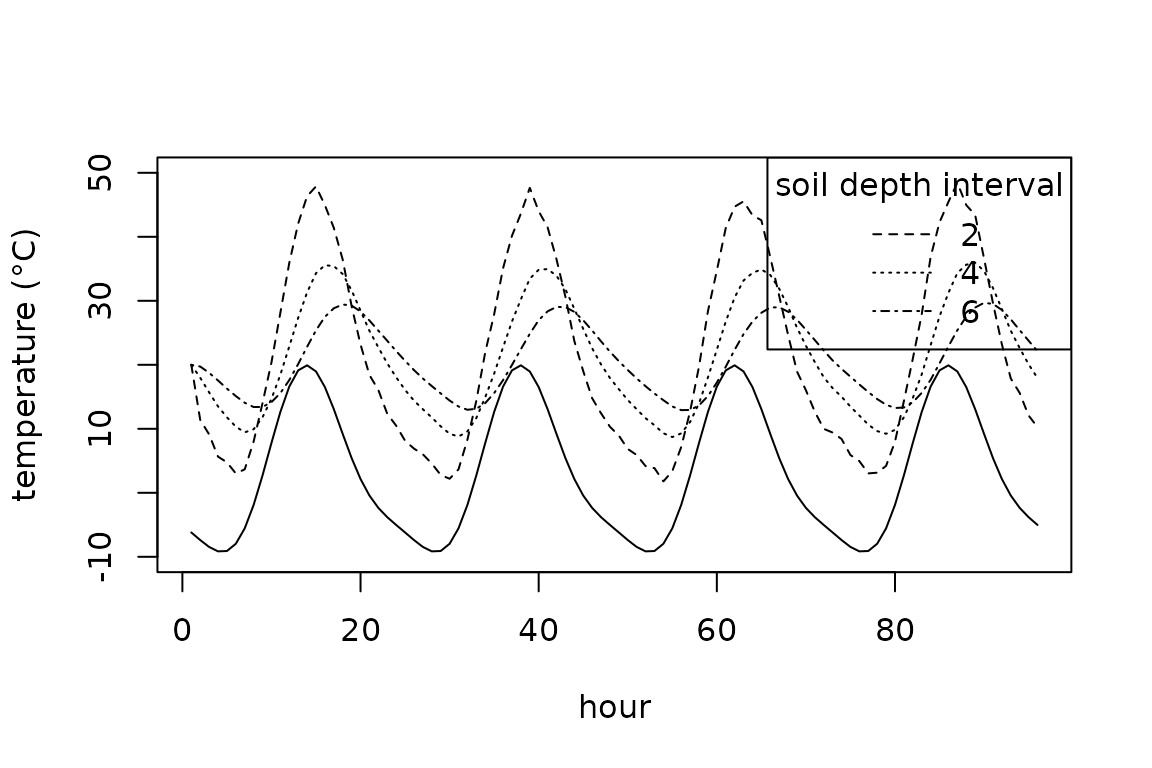
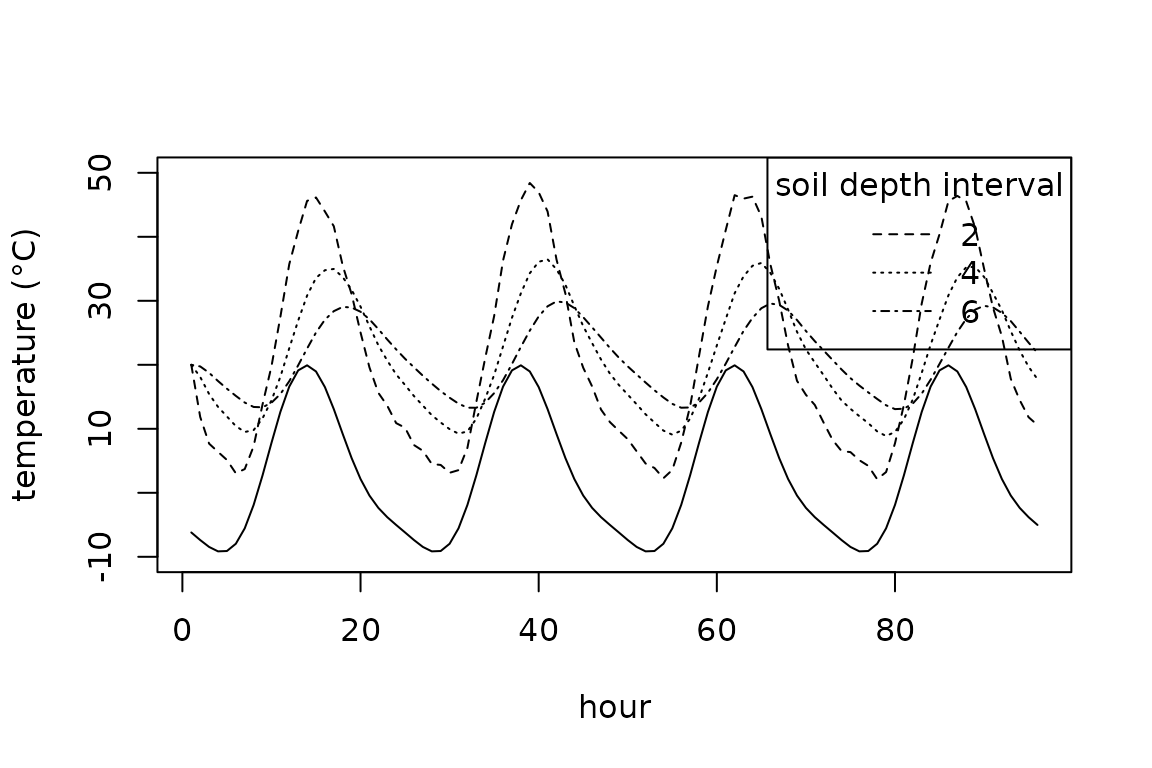
Built site for TrenchR: 0.1.0@c09f9f4

diff --git a/reference/soil_temperature_function.html b/reference/soil_temperature_function.html
@@ -129,7 +129,7 @@
 <span class="r-in"></span>
 <span class="r-in"><span class="fu">soil_temperature_function</span><span class="op">(</span>j<span class="op">=</span><span class="fl">1</span>,T_so<span class="op">=</span> <span class="fu"><a href="https://rdrr.io/r/base/rep.html" class="external-link">rep</a></span><span class="op">(</span><span class="fl">20</span>,<span class="fl">13</span><span class="op">)</span>, params<span class="op">=</span><span class="va">params</span><span class="op">)</span></span>
 <span class="r-out co"><span class="r-pr">#&gt;</span> [[1]]</span>
-<span class="r-out co"><span class="r-pr">#&gt;</span>  [1] -33.58038   0.00000   0.00000   0.00000   0.00000   0.00000   0.00000</span>
+<span class="r-out co"><span class="r-pr">#&gt;</span>  [1] -26.87374   0.00000   0.00000   0.00000   0.00000   0.00000   0.00000</span>
 <span class="r-out co"><span class="r-pr">#&gt;</span>  [8]   0.00000   0.00000   0.00000   0.00000   0.00000   0.00000</span>
 <span class="r-out co"><span class="r-pr">#&gt;</span> </span>
 <span class="r-in"></span>

diff --git a/articles/AllometryAndConversionsTutorial.html b/articles/AllometryAndConversionsTutorial.html
@@ -90,7 +90,7 @@
       <h1 data-toc-skip>Allometries and conversions</h1>
                         <h4 data-toc-skip class="author">Lauren Buckley and the TrEnCh project, Department of Biology, University of Washington</h4>
             
-            <h4 data-toc-skip class="date">2022-01-13</h4>
+            <h4 data-toc-skip class="date">2022-01-18</h4>
       
       <small class="dont-index">Source: <a href="https://github.com/trenchproject/TrenchR/blob/HEAD/vignettes/AllometryAndConversionsTutorial.Rmd" class="external-link"><code>vignettes/AllometryAndConversionsTutorial.Rmd</code></a></small>
       <div class="hidden name"><code>AllometryAndConversionsTutorial.Rmd</code></div>

diff --git a/articles/MicroclimateTutorial.html b/articles/MicroclimateTutorial.html
@@ -90,7 +90,7 @@
       <h1 data-toc-skip>Estimating microclimates</h1>
                         <h4 data-toc-skip class="author">Lauren Buckley and the TrEnCh project, Department of Biology, University of Washington</h4>
             
-            <h4 data-toc-skip class="date">2022-01-13</h4>
+            <h4 data-toc-skip class="date">2022-01-18</h4>
       
       <small class="dont-index">Source: <a href="https://github.com/trenchproject/TrenchR/blob/HEAD/vignettes/MicroclimateTutorial.Rmd" class="external-link"><code>vignettes/MicroclimateTutorial.Rmd</code></a></small>
       <div class="hidden name"><code>MicroclimateTutorial.Rmd</code></div>

diff --git a/articles/TeTutorial.html b/articles/TeTutorial.html
@@ -90,7 +90,7 @@
       <h1 data-toc-skip>Using energy balances to estimate body temperatures</h1>
                         <h4 data-toc-skip class="author">Lauren Buckley and the TrEnCh project, Department of Biology, University of Washington</h4>
             
-            <h4 data-toc-skip class="date">2022-01-13</h4>
+            <h4 data-toc-skip class="date">2022-01-18</h4>
       
       <small class="dont-index">Source: <a href="https://github.com/trenchproject/TrenchR/blob/HEAD/vignettes/TeTutorial.Rmd" class="external-link"><code>vignettes/TeTutorial.Rmd</code></a></small>
       <div class="hidden name"><code>TeTutorial.Rmd</code></div>

diff --git a/articles/Symbols.html b/articles/Symbols.html
@@ -90,7 +90,7 @@
       <h1 data-toc-skip>List of Symbols</h1>
                         <h4 data-toc-skip class="author">TrEnCh project, Buckley Lab, Department of Biology, University of Washington</h4>
             
-            <h4 data-toc-skip class="date">2022-01-13</h4>
+            <h4 data-toc-skip class="date">2022-01-18</h4>
       
       <small class="dont-index">Source: <a href="https://github.com/trenchproject/TrenchR/blob/HEAD/vignettes/Symbols.Rmd" class="external-link"><code>vignettes/Symbols.Rmd</code></a></small>
       <div class="hidden name"><code>Symbols.Rmd</code></div>
